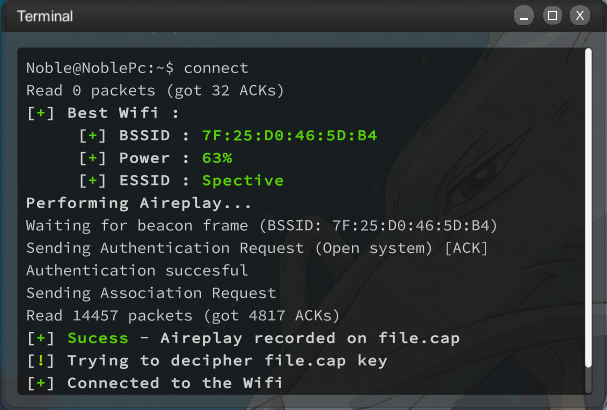
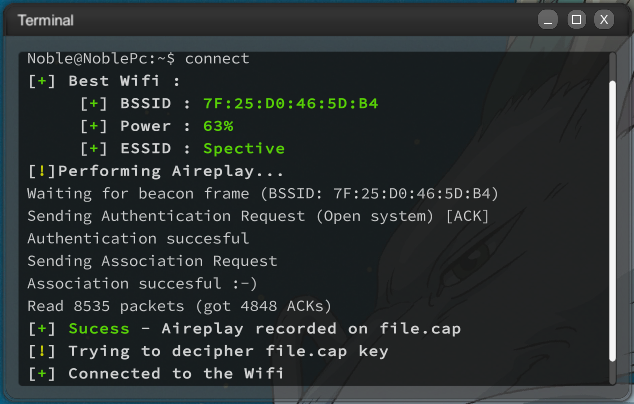
update connect script and photo

Changed region(s): [[0.0, 0.0, 1.0, 1.0]]

diff --git a/connect/connect.js b/connect/connect.js
@@ -17,7 +17,7 @@ end for
 //Alert the user of the best wifi
 print("<b>[<color=#68FF00>+</color>] Best Wifi :\n<b>     [<color=#68FF00>+</color>] BSSID : <color=#68FF00>"+ToConnect[0]+"\n<b>     [<color=#68FF00>+</color>] Power : <color=#68FF00>"+ToConnect[1]+"\n<b>     [<color=#68FF00>+</color>] ESSID : <color=#68FF00>"+ToConnect[2])
 //Perform aireplay
-print("<b>Performing Aireplay...")
+print("<b>[<color=#FAFF00>!</color>]Performing Aireplay...")
 cryptools.aireplay(ToConnect[0],ToConnect[2], (300000/ToConnect[1][0:-1].to_int))
 print("<b>[<color=#68FF00>+</color>]<color=#68FF00> Sucess</color> - Aireplay recorded on file.cap")
 //Perform aircrack and delete file.cap
